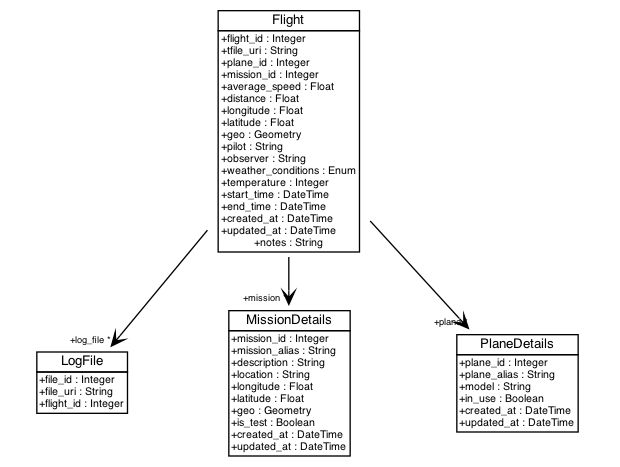
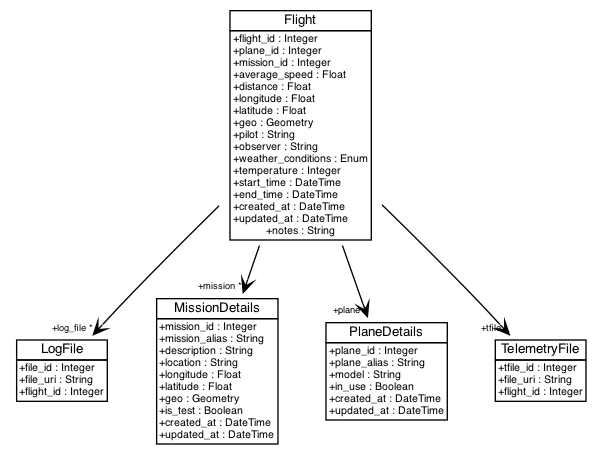
Include Telemetry file as separate table

diff --git a/server/alembic/versions/7b801feca009_add_telemetry_file_as_separate_entity.py b/server/alembic/versions/7b801feca009_add_telemetry_file_as_separate_entity.py
@@ -1,0 +1,47 @@
+"""Add telemetry file as separate entity
+
+Revision ID: 7b801feca009
+Revises: 9f96a8e16f9e
+Create Date: 2022-08-26 13:09:34.274290
+
+"""
+from alembic import op
+import sqlalchemy as sa
+
+
+# revision identifiers, used by Alembic.
+revision = "7b801feca009"
+down_revision = "9f96a8e16f9e"
+branch_labels = None
+depends_on = None
+
+
+def upgrade():
+    # ### commands auto generated by Alembic - please adjust! ###
+    op.create_table(
+        "telemetry_file",
+        sa.Column("tfile_id", sa.Integer(), autoincrement=True, nullable=False),
+        sa.Column("file_uri", sa.String(), nullable=True),
+        sa.Column("flight_id", sa.Integer(), nullable=True),
+        sa.ForeignKeyConstraint(
+            ["flight_id"],
+            ["flight.flight_id"],
+        ),
+        sa.PrimaryKeyConstraint("tfile_id"),
+    )
+    op.drop_column("flight", "notes")
+    op.add_column(
+        "flight", sa.Column("notes", sa.VARCHAR(), autoincrement=False, nullable=True)
+    )
+    op.drop_column("flight", "tfile_uri")
+    # ### end Alembic commands ###
+
+
+def downgrade():
+    # ### commands auto generated by Alembic - please adjust! ###
+    op.add_column(
+        "flight",
+        sa.Column("tfile_uri", sa.VARCHAR(), autoincrement=False, nullable=True),
+    )
+    op.drop_table("telemetry_file")
+    # ### end Alembic commands ###

diff --git a/server/app/models/metadata.py b/server/app/models/metadata.py
@@ -77,7 +77,6 @@ def calculate_geo_mission(mapper, connect, target):
 class Flight(Base):
     __tablename__ = "flight"
     flight_id = Column(Integer, primary_key=True, autoincrement=True)
-    tfile_uri = Column(String, nullable=True)
     plane_id = Column(Integer, ForeignKey("plane_details.plane_id"), nullable=True)
     mission_id = Column(
         Integer, ForeignKey("mission_details.mission_id"), nullable=True
@@ -98,12 +97,20 @@ class Flight(Base):
     plane = relationship("PlaneDetails", secondary=plane_flight_association)
     mission = relationship("MissionDetails", secondary=misssion_flight_association)
     log_file = relationship("LogFile")
-    notes = Column(String, nullable=False)
+    tfile = relationship("TelemetryFile")
+    notes = Column(String, nullable=True)
 
 
 class LogFile(Base):
     __tablename__ = "logfile"
     file_id = Column(Integer, primary_key=True, autoincrement=True)
+    file_uri = Column(String)
+    flight_id = Column(Integer, ForeignKey("flight.flight_id"))
+
+
+class TelemetryFile(Base):
+    __tablename__ = "telemetry_file"
+    tfile_id = Column(Integer, primary_key=True, autoincrement=True)
     file_uri = Column(String)
     flight_id = Column(Integer, ForeignKey("flight.flight_id"))
 

diff --git a/devdocs/model/README.md b/devdocs/model/README.md
@@ -1,6 +1,6 @@
 # Auto-generated model diagram
 
-The auto-generated diagram of the database schema is updated here. In order to update it, simply run the python script `model.py`
+The auto-generated diagram of the database schema is updated here. In order to update it, simply run the python script `autogenerate.py`
 
 ## Diagram
 
